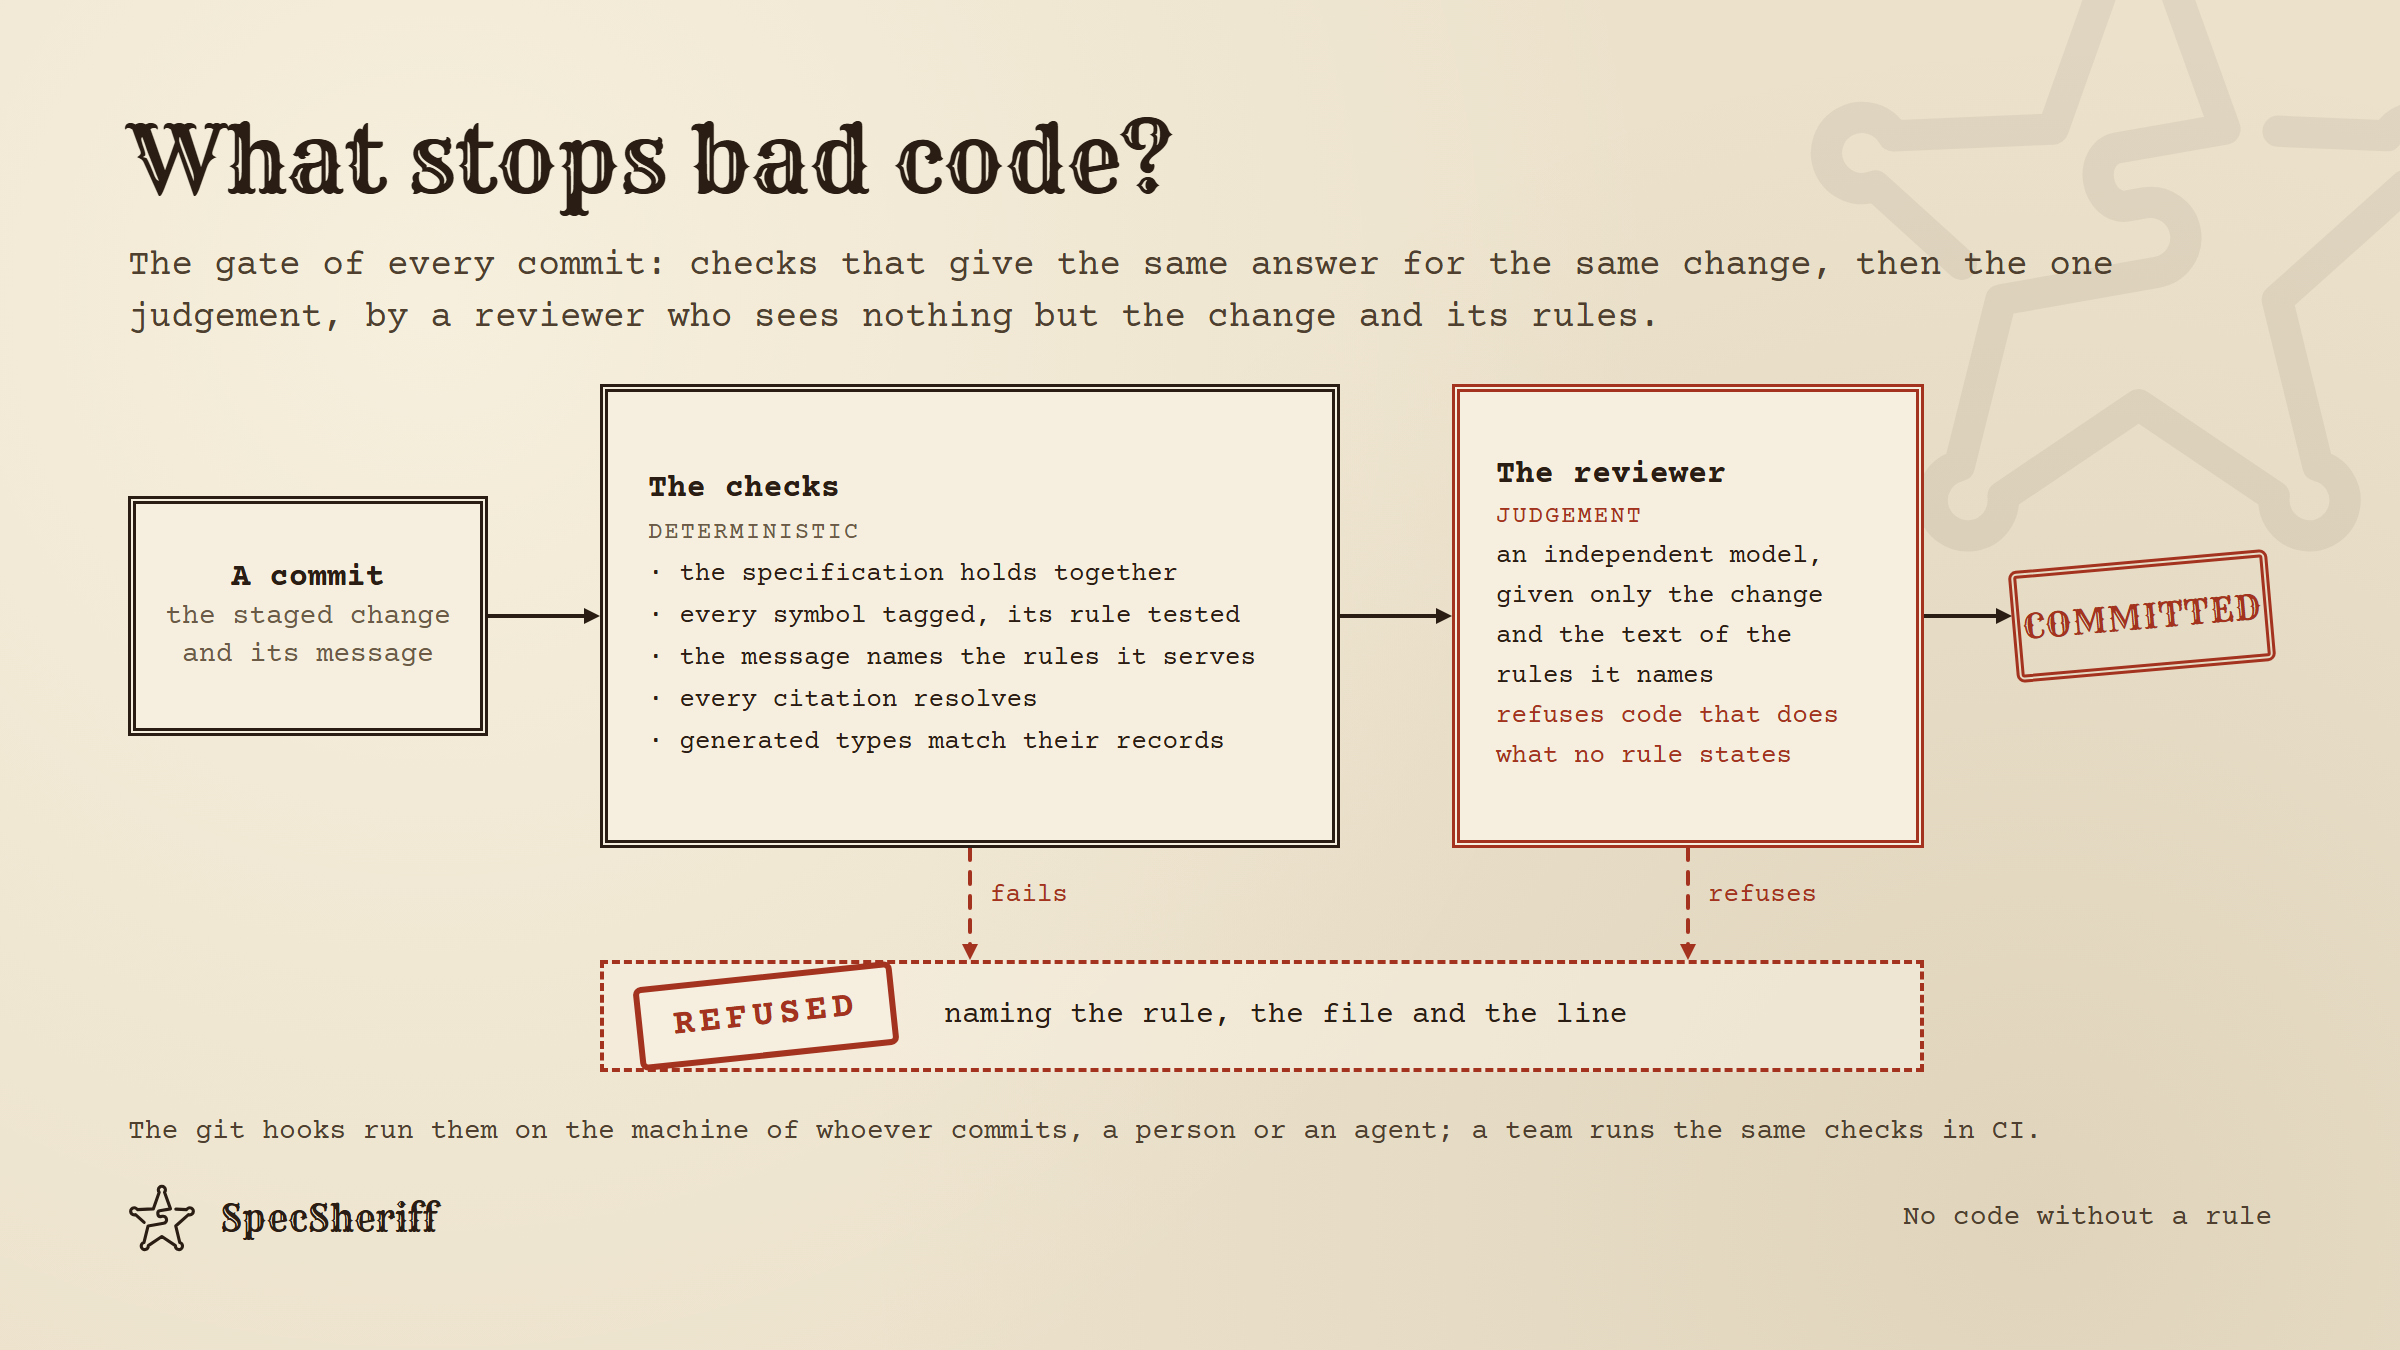
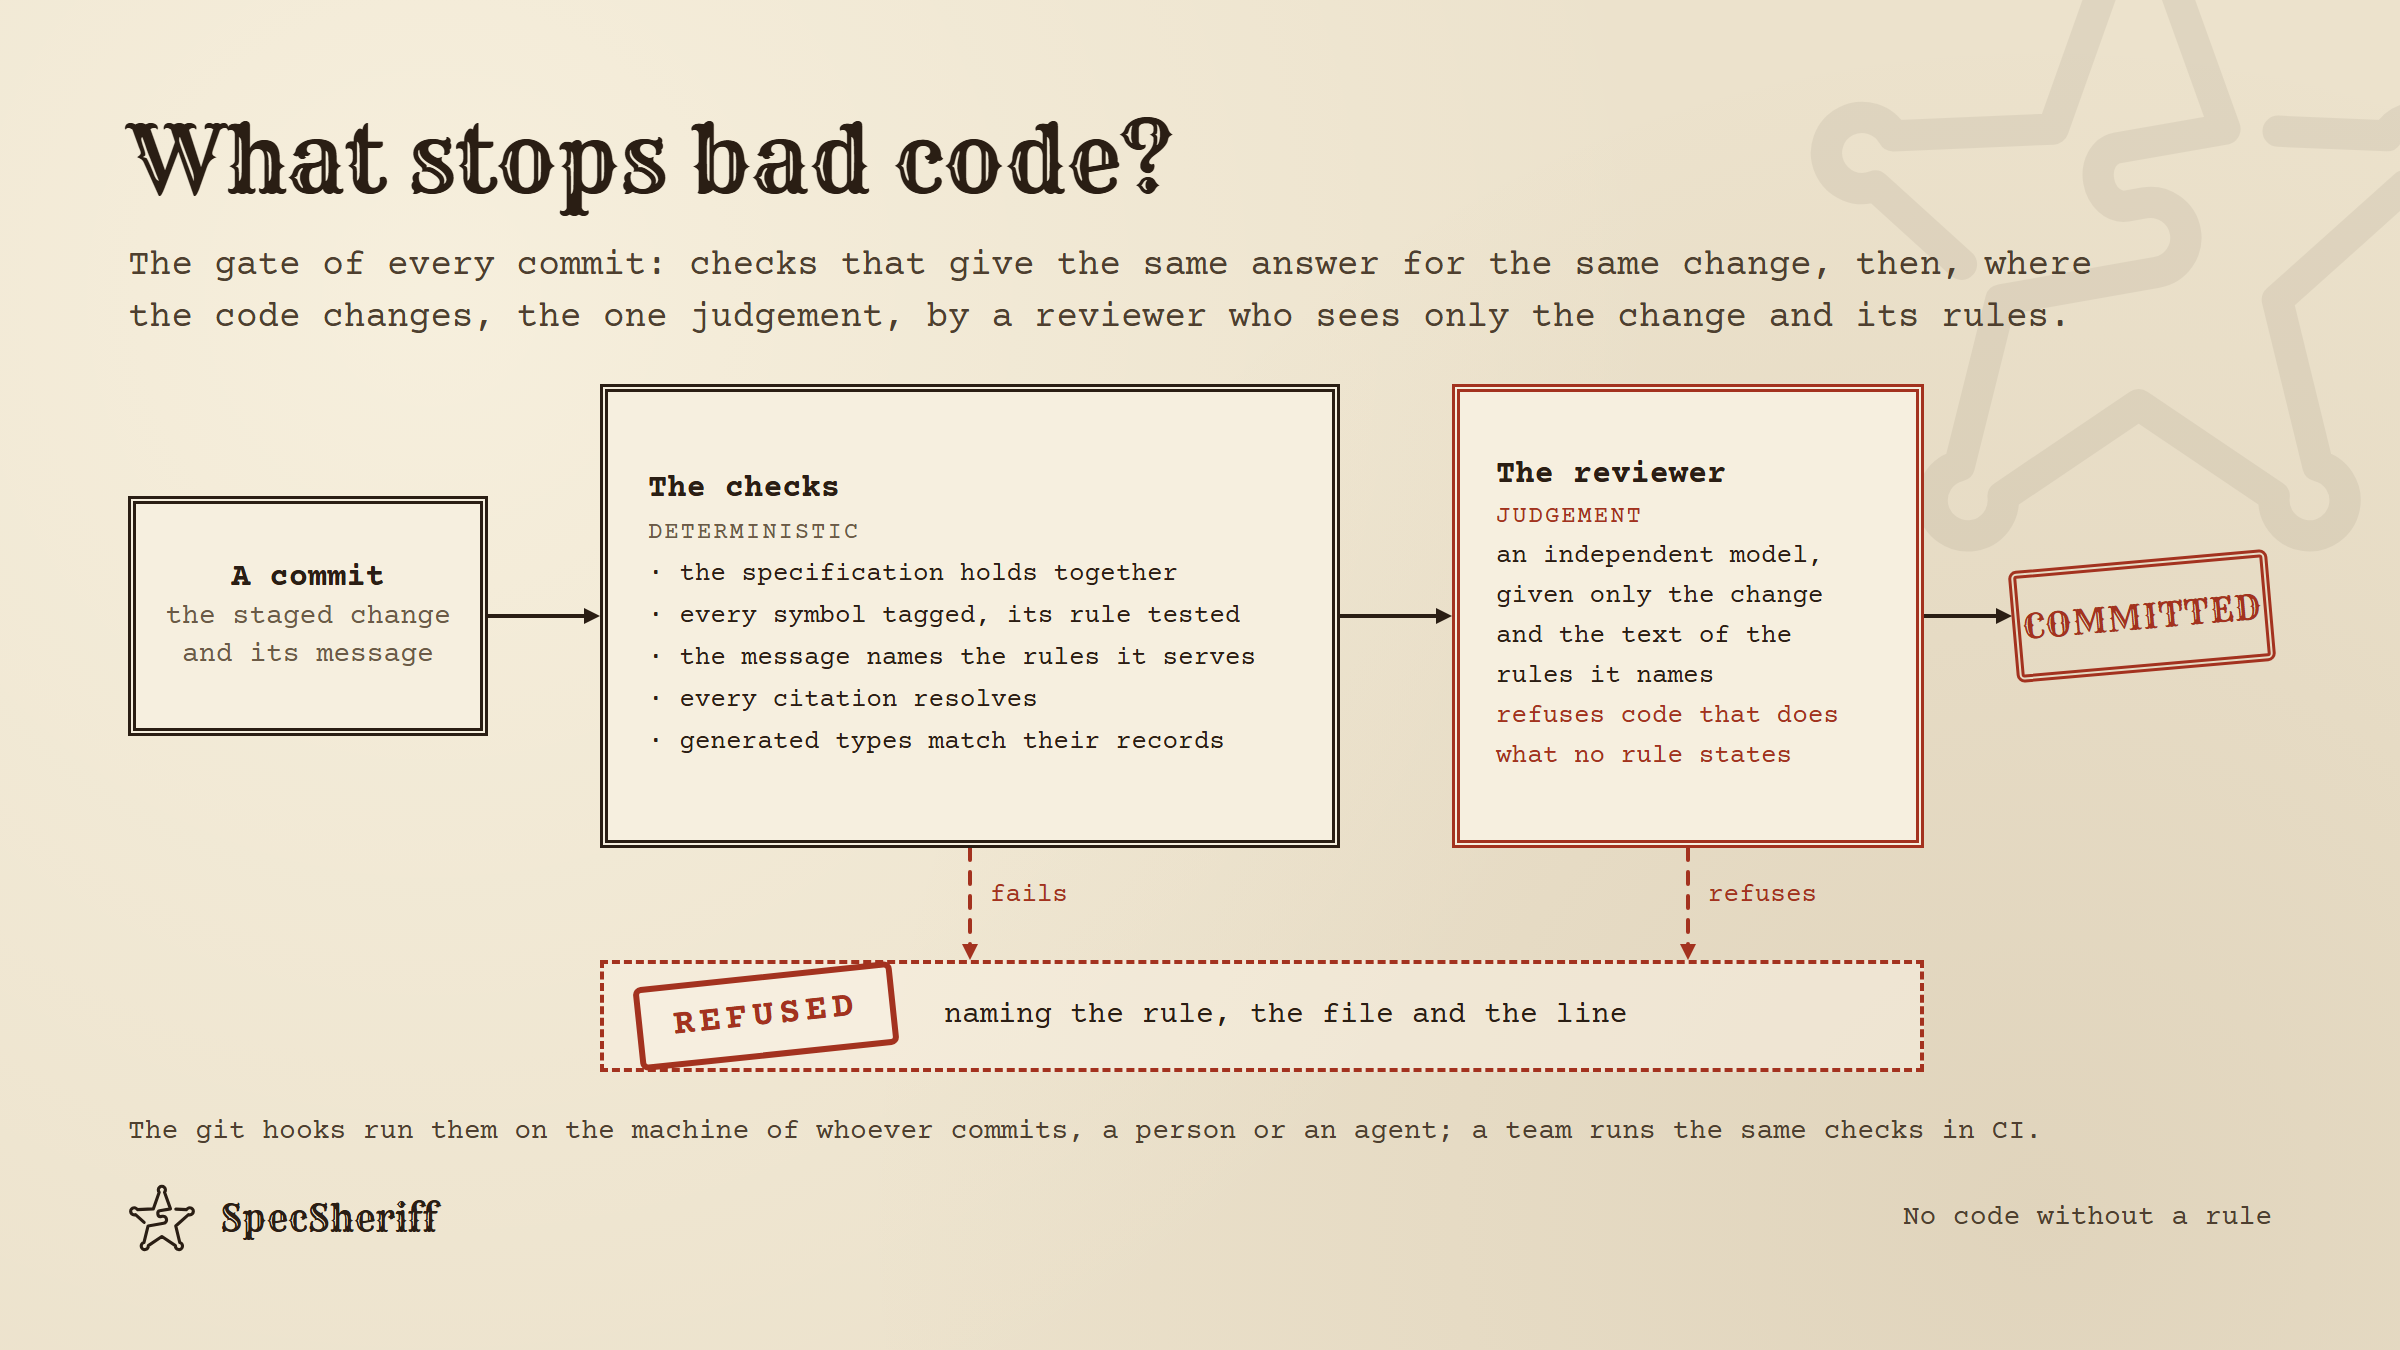
Principles: the independent reviewer judges every commit that changes code, as the rule on what is checked and when (§s-jau82aq9juv9zzh) has it, the owner agreeing; picture 2 says the same in its lead, rendered again with its captions following, and so does the landscape

Changed region(s): [[0.0625, 0.1867, 0.875, 0.2489]]

diff --git a/_promo/images/html/2-what-stops-bad-code.html b/_promo/images/html/2-what-stops-bad-code.html
@@ -54,7 +54,7 @@ a{color:#a3321f}a:hover{color:#7c2214}
 <svg class="fails-arrow" width="8" height="56" viewBox="0 0 8 56" preserveAspectRatio="none" style="position: absolute; left: 481px; top: 424px; width: 8px; height: 56px; overflow: visible; fill: none; stroke: #a3321f; stroke-width: 2; stroke-linecap: round; stroke-linejoin: round; stroke-dasharray: 6 6"><defs><marker id="dc-arrow-head-filled-4" orient="auto" markerWidth="5" markerHeight="5" refX="2" refY="2" overflow="visible"><path d="M0 0 L4 2 L0 4 Z" fill="#a3321f" stroke="none" style="stroke: none; fill: #a3321f; fill: context-stroke"/></marker></defs><path d="M 4 0 L 4 52" marker-end="url(#dc-arrow-head-filled-4)"></path></svg>
 <svg class="refuses-arrow" width="8" height="56" viewBox="0 0 8 56" preserveAspectRatio="none" style="position: absolute; left: 840px; top: 424px; width: 8px; height: 56px; overflow: visible; fill: none; stroke: #a3321f; stroke-width: 2; stroke-linecap: round; stroke-linejoin: round; stroke-dasharray: 6 6"><defs><marker id="dc-arrow-head-filled-5" orient="auto" markerWidth="5" markerHeight="5" refX="2" refY="2" overflow="visible"><path d="M0 0 L4 2 L0 4 Z" fill="#a3321f" stroke="none" style="stroke: none; fill: #a3321f; fill: context-stroke"/></marker></defs><path d="M 4 0 L 4 52" marker-end="url(#dc-arrow-head-filled-5)"></path></svg>
 <div class="title" style="position: absolute; left: 64px; top: 52px; font-family: 'Rye', Georgia, serif; font-size: 46px; line-height: 56px">What stops bad code?</div>
-<div class="lead" style="position: absolute; left: 64px; top: 120px; width: 1000px; font-size: 18px; line-height: 26px; color: #4e3f2f">The gate of every commit: checks that give the same answer for the same change, then the one judgement, by a reviewer who sees nothing but the change and its rules.</div>
+<div class="lead" style="position: absolute; left: 64px; top: 120px; width: 1000px; font-size: 18px; line-height: 26px; color: #4e3f2f">The gate of every commit: checks that give the same answer for the same change, then, where the code changes, the one judgement, by a reviewer who sees only the change and its rules.</div>
 <div class="step commit" style="position: absolute; left: 64px; top: 248px; width: 180px; height: 120px; box-sizing: border-box; padding: 10px; display: flex; align-items: center; justify-content: center; text-align: center; background: #f6efdf; border: 4px double #2a1e14; font-size: 14px; line-height: 19px"><span><b style="font-size: 16px">A commit</b><br><span style="color: #6b5a46">the staged change<br>and its message</span></span></div>
 <div class="step checks" style="position: absolute; left: 300px; top: 192px; width: 370px; height: 232px; box-sizing: border-box; padding: 16px 20px; display: flex; align-items: center; background: #f6efdf; border: 4px double #2a1e14; font-size: 13px; line-height: 21px"><span><b style="font-size: 16px">The checks</b><br><span style="font-size: 12px; letter-spacing: 0.08em; color: #6b5a46">DETERMINISTIC</span><br>· the specification holds together<br>· every symbol tagged, its rule tested<br>· the message names the rules it serves<br>· every citation resolves<br>· generated types match their records</span></div>
 <div class="step reviewer" style="position: absolute; left: 726px; top: 192px; width: 236px; height: 232px; box-sizing: border-box; padding: 16px 18px; display: flex; align-items: center; background: #f6efdf; border: 4px double #a3321f; font-size: 13px; line-height: 20px"><span><b style="font-size: 16px">The reviewer</b><br><span style="font-size: 12px; letter-spacing: 0.08em; color: #a3321f">JUDGEMENT</span><br>an independent model, given only the change and the text of the rules it names<br><span style="color: #a3321f">refuses code that does what no rule states</span></span></div>

diff --git a/_promo/images/README.md b/_promo/images/README.md
@@ -23,7 +23,7 @@ interpreter other than `python3`, or `python` on Windows, named by `PYTHON`).
 | Picture | The question it answers |
 |---------|-------------------------|
 | `1-how-it-works` | How does it work? The life of a rule: confirmed by its owner, a test and the code carrying its sid, the commit through the checks and the reviewer; a changed wording returns it to unconfirmed. |
-| `2-what-stops-bad-code` | What stops bad code? The gate of every commit: the deterministic checks, then the reviewer's one judgement. |
+| `2-what-stops-bad-code` | What stops bad code? The gate of every commit: the deterministic checks, then, where the code changes, the reviewer's one judgement. |
 | `3-change-of-stack` | Will it survive a change of stack? One base specification, a technical appendix for each stack. |
 | `4-map-of-approaches` | How does it differ from Spec Kit? Spec-first, spec-anchored and spec-as-source, the tools placed on them. |
 

diff --git a/docs/research/landscape.md b/docs/research/landscape.md
@@ -44,7 +44,7 @@ each edit an agent makes and at every commit; and the three parts below. SpecGat
 confirmation tied to the text and a deterministic gate, SpecDrive on permanent ids tagged into code
 and tests, Qodo on a model judging a change against its requirement.
 
-1. **An independent reviewer as a gate of every commit**, deliberately given nothing of the session
+1. **An independent reviewer as a gate of every commit that changes code**, deliberately given nothing of the session
    that wrote the code: only the change and the text of the rules the commit names. It refuses a
    commit whose code does something no named rule states, or leaves out what one requires, naming
    the rule and the line. Qodo's review is the nearest found: it reads the ticket rather than rules,

diff --git a/docs/principles.md b/docs/principles.md
@@ -38,7 +38,8 @@ Checks that answer the same for the same change hold the chain together: hooks i
 harness, at each of its edits, where the order rule, test, code is also held; and git hooks at every
 commit, the final gate on each participant's machine, whoever made the change; a team that needs the
 gate to hold for everyone runs the same checks in CI. The one judgement that is not deterministic — whether
-the code does only what its rules say — is made at every commit by an independent reviewer.
+the code does only what its rules say — is made at every commit that changes code by an independent
+reviewer.
 
 ## A rule is self-sufficient
 

diff --git a/_promo/articles/no-code-without-a-rule.md b/_promo/articles/no-code-without-a-rule.md
@@ -89,7 +89,7 @@ only the change and the text of the rules the commit names. If the code does som
 states, or leaves out what one requires, it refuses the commit and names the rule and the line
 (§s-nyh9yk22ba6g77q).
 
-![What stops bad code? The gate of every commit: the checks, then the reviewer.](../images/png/2-what-stops-bad-code.png)
+![What stops bad code? The gate of every commit: the checks, then, where the code changes, the reviewer.](../images/png/2-what-stops-bad-code.png)
 
 ### A rule is self-sufficient
 
